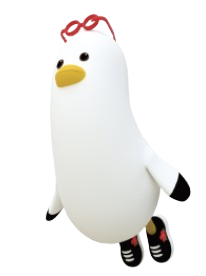
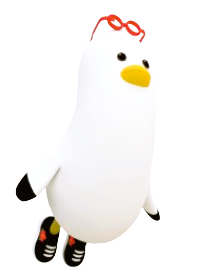
sports 부기 변경

diff --git a/src/pages/sports/Sports.jsx b/src/pages/sports/Sports.jsx
@@ -96,9 +96,9 @@ const Yacht = styled.img`
 
 const Boogie = styled(motion.img)`
   position: absolute;
-  width: 130px;
-  height: 180px;
-  bottom: 150px;
+  width: 200px;
+  height: 270px;
+  bottom: 220px;
   left: 3%;
   cursor: pointer;
 
